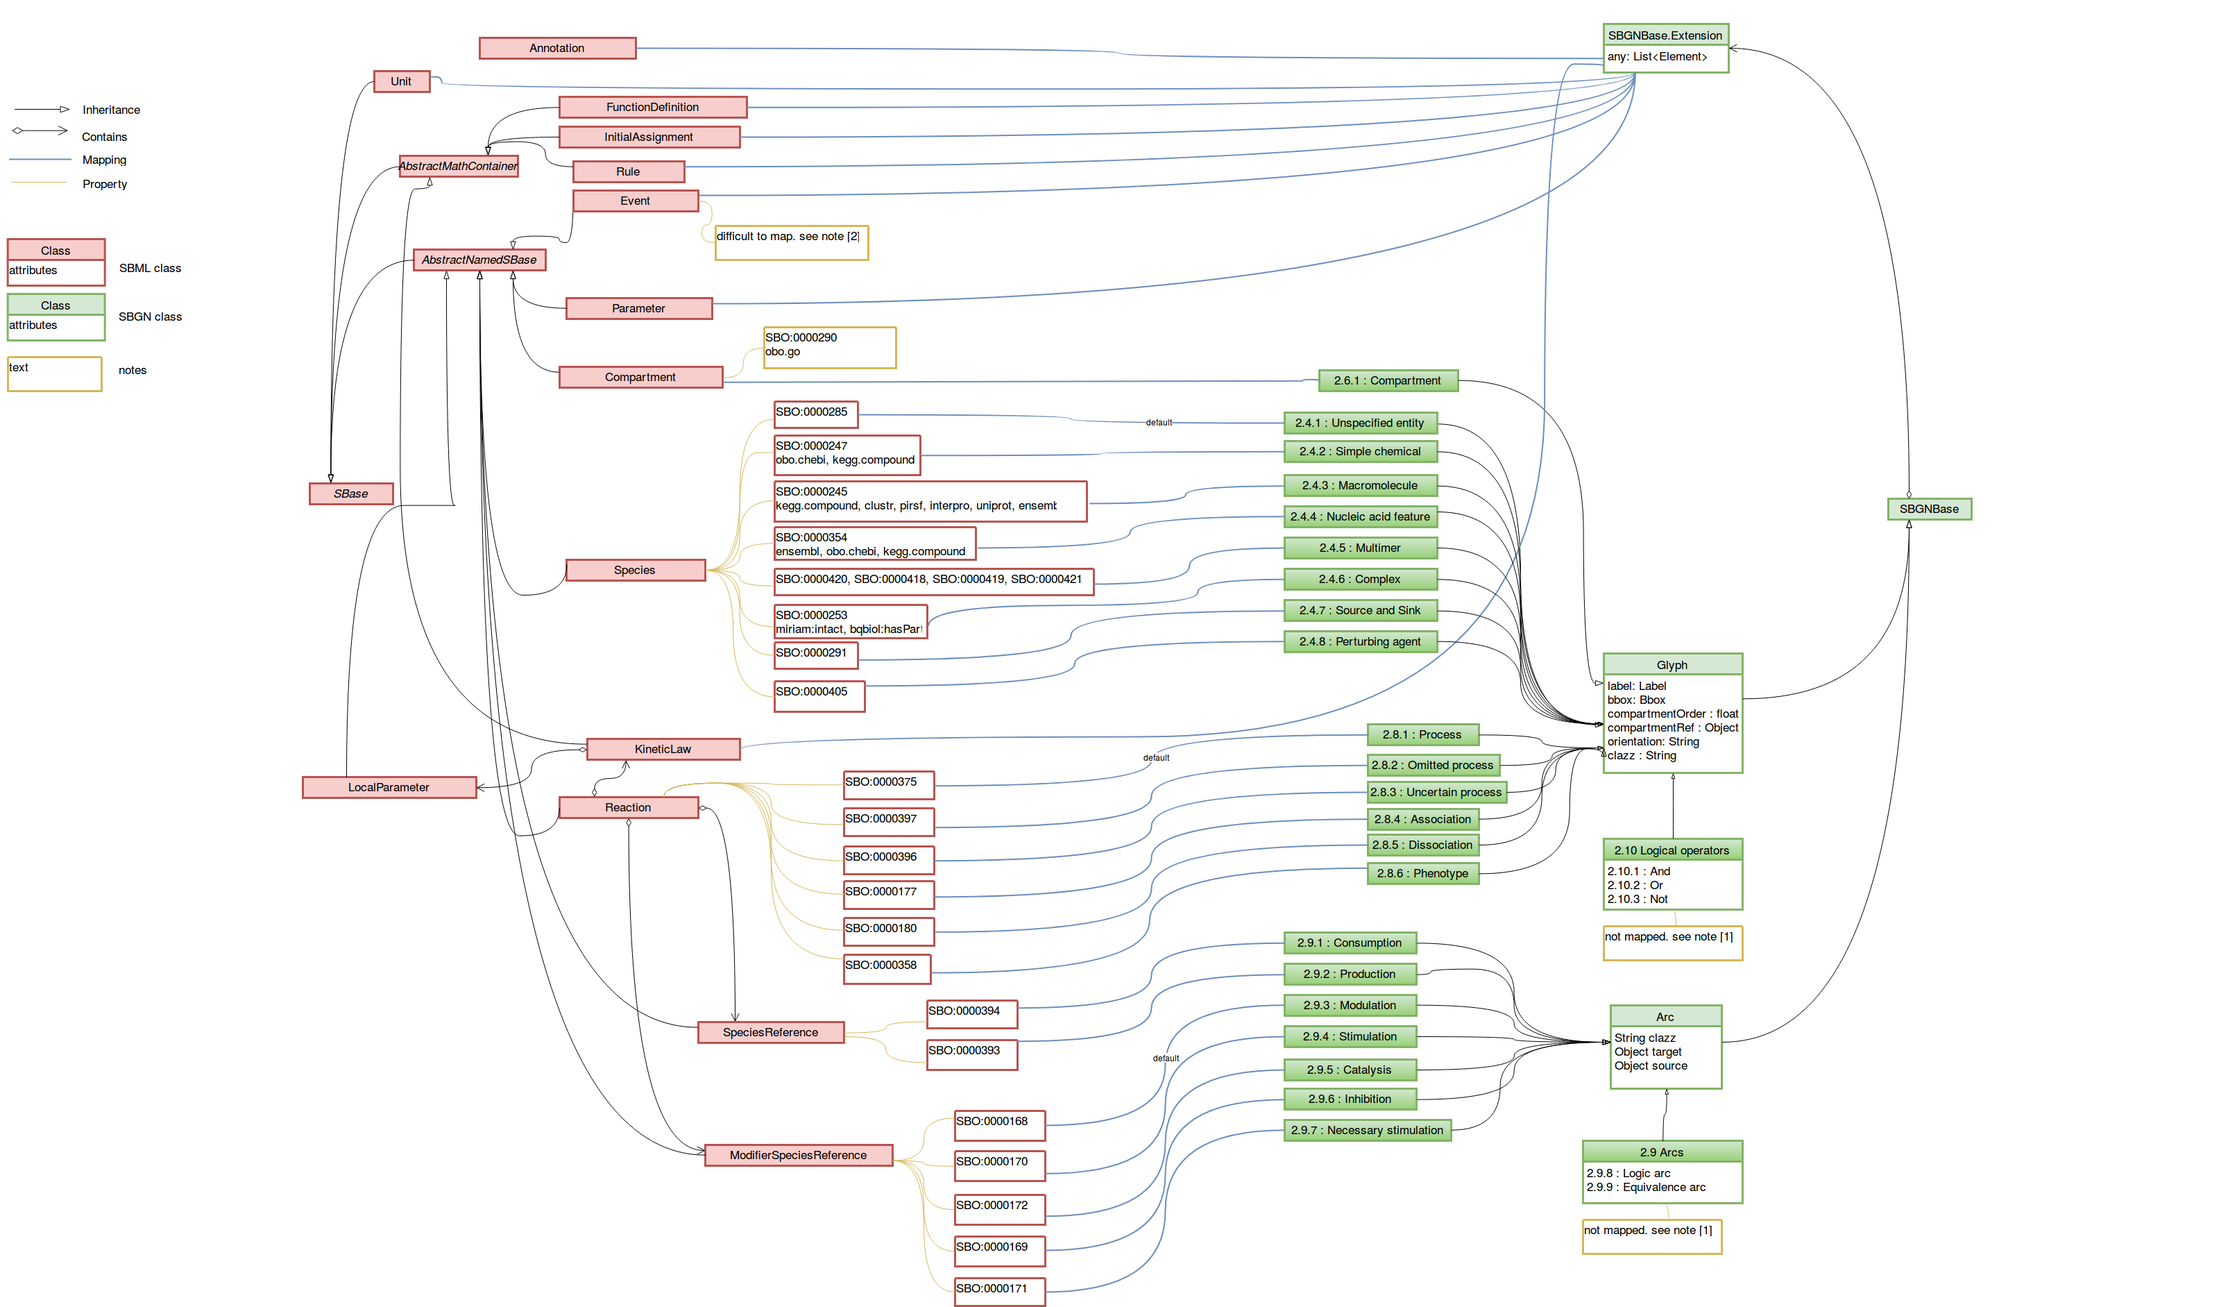
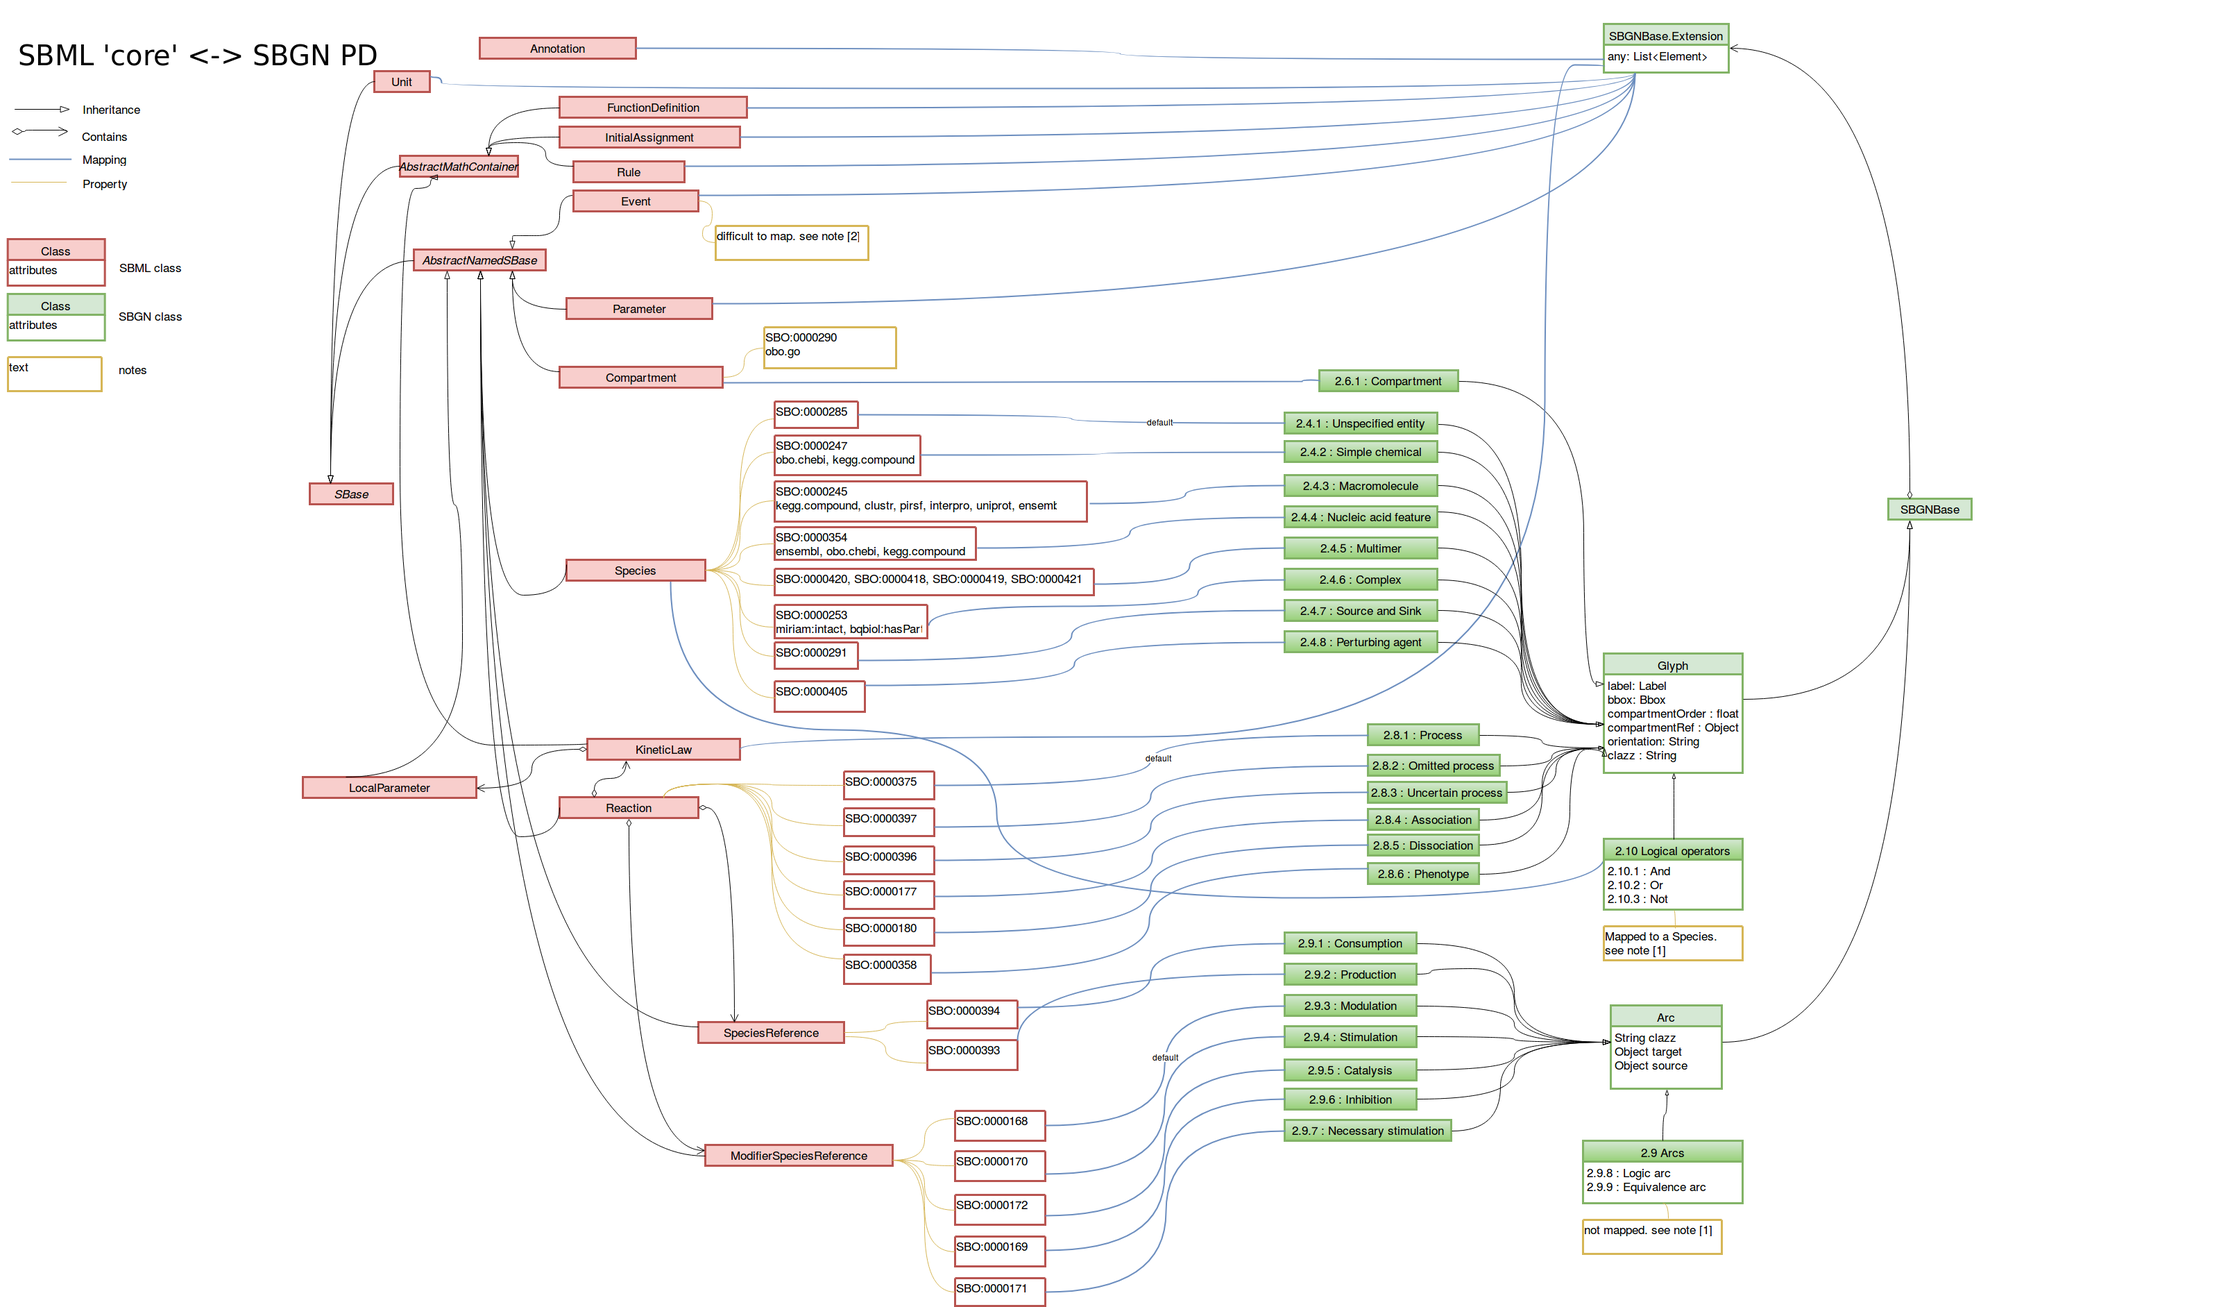
updated readme

diff --git a/code/src/org/sbfc/converter/sbml2sbgnml/SBML2SBGNML_GSOC2017.java b/code/src/org/sbfc/converter/sbml2sbgnml/SBML2SBGNML_GSOC2017.java
@@ -192,7 +192,6 @@ public class SBML2SBGNML_GSOC2017 extends GeneralConverter {
 			
 	/**
 	 * Create multiple SBGN <code>Glyph</code>, each corresponding to an SBML <code>CompartmentGlyph</code>. 
-	 * TODO: many things still need to be handled, see comments below
 	 * 
 	 * @param <code>Sbgn</code> sbgnObject
 	 * @param <code>ListOf<CompartmentGlyph></code> listOfCompartmentGlyphs

diff --git a/README.MD b/README.MD
@@ -139,33 +139,163 @@ The mapping diagram is almost identical to `SBML 'layout'+'render' <-> SBGN PD`
 5. `SBML 'qual' <-> SBGN AF`
 ![](https://github.com/NRNB-GSoC2017-SBML2SBGNML-Converters/SBML2SBGNML/blob/master/documentation/SBML2SBGN_%5Bqual_to_AF%5D_MIRIAM%2BSBO.png)
 
-Note 1:
-SBML core <-> SBGN PD
-Logic arc 
-Equivalence arc
-And
-Or
-Not
+The diagrams above were generated using [draw.io](https://www.draw.io/#). The diagrams were stored in XML format in [documentation](https://github.com/NRNB-GSoC2017-SBML2SBGNML-Converters/SBML2SBGNML/tree/master/documentation). These can be imported and edited.
+### Note 1:
+For the converter `SBML 'core' <- SBGN PD` and `SBML 'layout' <- SBGN PD`, we have multiple ways to map SBGN 'Logic arc', 'Equivalence arc', 'And', 'Or', 'Not' to SBML 'layout' objects. There are 3 alternatives we have discussed in [Post #10](http://haleyyew-gsoc.blogspot.ca/2017/07/week-10.html) in the blog and in an [Github Issue](https://github.com/NRNB-GSoC2017-SBML2SBGNML-Converters/SBML2SBGNML/issues/51). The example that we use is [or-simple.sbgn](https://github.com/sbgn/libsbgn/blob/master/test-files/PD/or-simple.png).
 
-Note 2:
-SBML core <-> SBGN PD
-Event
-Multiple diagrams for different time points
+1. Alternative 1 (incorrect)
+![](https://github.com/NRNB-GSoC2017-SBML2SBGNML-Converters/SBML2SBGNML/blob/master/documentation/or-simple_mapping1.png)
 
-Note 3:
-SBML core <-> SBGN AF
-KineticLaw
+However, we discussed in the blog that this violates the syntax of SBML 'core' and 'layout'. A ModifierSpeciesReference(MSR) cannot participate in 2 reactions. In this case, if the 'OR' glyph is mapped to a Reaction, then MSR would be a Product in the 'OR' Reaction. But then MSR is at the same time a Modifier in the 'Subst->Prod' Reaction.
 
-Note 4:
-SBML qual <-> SBGN AF
-Transition stores FunctionTerm
+2. Alternative 2 (not optimal)
+![](https://github.com/NRNB-GSoC2017-SBML2SBGNML-Converters/SBML2SBGNML/blob/master/documentation/or-simple_mapping2.png)
 
-Note 5:
-Preserving information in SBML core
+If we map the 'OR' glyph to a GeneralGlyph, then we lose many objects in the SBML 'core' model. The 'core' model no longer stores the 2 Logic arcs, the 'OR' glyph, and the Modifier arc. 
+
+3. Alternative 3
+![](https://github.com/NRNB-GSoC2017-SBML2SBGNML-Converters/SBML2SBGNML/blob/master/documentation/or-simple_mapping3.png)
+
+We end up using this option because it allows us to store as many objects in the 'core' model as possible. There is a tradeoff: since we map the 'OR' glyph to a Species+SpeciesGlyph, we cannot draw the center Curve that connects the Arcs. We need to create a separate ReferenceGlyph to mimic the appearance of the center Curve of a ReactionGlyph.
+
+We also lose the 2 Logic arcs in the 'core' model, but we managed to insert an Annotation element for the 2 mapped ReferenceGlyphs that informs to whom they interact with. For example, in one of the ReferenceGlyphs, the Annotation indicates the following:
+```
+	<bqbiol:hasProperty>
+	<rdf:Bag>
+	<rdf:li rdf:resource="glyph2"/>
+	<rdf:li rdf:resource="glyph3"/>
+	</rdf:Bag>
+	</bqbiol:hasProperty>
+```
+The ReferenceGlyph's 'source' is Species="glyph2" (which is Enzym2), and the 'target' is Species="glyph3" (which is 'OR').
+
+The converted SBML model for or-simple.sbgn is [or-simple_SBML.xml](https://github.com/NRNB-GSoC2017-SBML2SBGNML-Converters/SBML2SBGNML/blob/master/sbgnml_pd_examples_converted/or-simple_SBML.xml).
+
+### Note 2:
+For the converter `SBML 'core' -> SBGN PD`, we were concerned with not being able to store any 'layout' information contained inside an Event object in SBML 'core'. The approach that we plan to use, in the case where an Event changes the state of Species and Reactions, is to store multiple diagrams for different time points. An example is given below. This example was taken from [7.11 Example involving events](http://sbml.org/Special/specifications/sbml-level-3/version-1/core/release-2/sbml-level-3-version-1-core-release-2.pdf) in the SBML 'core' specification (with slight modifications).
+![](https://github.com/NRNB-GSoC2017-SBML2SBGNML-Converters/SBML2SBGNML/blob/master/documentation/note2.png)
+Consider a system with two genes, G1 and G2. G1 is initially on and G2 is initially off. When G1 is turned on, the two genes, together, lead to the production of two products, P1 and P2. When P1 reaches a given concentration (by some other reactions), G2 switches on.
+
+This idea has not been tested due to the lack of examples and a lack of time.
+
+### Note 3:
+For the converter `SBML 'core' <- SBGN AF`, we are concerned with how to map SBGN 'Logic arc', 'Equivalence arc', 'And', 'Or', 'Not' to SBML 'layout' objects to SBML KineticLaw. We found that KineticLaw might be a suitable candidate, however there will not be a Reaction in the 'core' model. For example, consider the SBGN model [compartment_extended.sbgn](https://github.com/NRNB-GSoC2017-SBML2SBGNML-Converters/SBML2SBGNML/blob/master/sbgnml_af_examples/compartment_extended.sbgn):
+![compartment_extended.sbgn](https://github.com/NRNB-GSoC2017-SBML2SBGNML-Converters/SBML2SBGNML/blob/master/sbgnml_af_examples/compartment_extended.png)
+The KineticLaw that describes the Logic circuit network from the "co-repressor", "co-activator", and the "RNA polymerase" to the "Gene transcription" is the following:
+```
+          <kineticLaw>
+            <math xmlns="http://www.w3.org/1998/Math/MathML">            
+              <apply>
+                <or/>
+                <apply>
+                  <and/>
+                  <ci> g2 </ci>
+                  <ci> g3 </ci>
+                </apply>
+                <ci> g6 </ci>
+              </apply>
+            </math>
+          </kineticLaw>
+```
+The initial values of g2, g3, and g6 must be either True or False. This idea was not implemented due to the lack of time, however, the idea in Note 4 was implemented. 
+
+### Note 4:
+For the converter `SBML 'qual' <-> SBGN AF`, we mapped SBGN 'Logic arc', 'Equivalence arc', 'And', 'Or', 'Not' to SBML 'qual' Transition, which stores a FunctionTerm. The example we worked with was [compartment_extended.sbgn](https://github.com/NRNB-GSoC2017-SBML2SBGNML-Converters/SBML2SBGNML/blob/master/sbgnml_af_examples/compartment_extended.sbgn), it was converted using [SBGNML2SBMLQual.java](https://github.com/NRNB-GSoC2017-SBML2SBGNML-Converters/SBML2SBGNML/blob/master/code/src/org/sbfc/converter/sbgnml2sbml/qual/SBGNML2SBMLQual.java). The converted SBML 'qual' model was [compartment_extended_SBML+qual.xml](https://github.com/NRNB-GSoC2017-SBML2SBGNML-Converters/SBML2SBGNML/blob/master/sbgnml_af_examples_converted/compartment_extended_SBML%2Bqual.xml). Notice how the Logic circuit network was mapped to the following Transition:
+```
+      <qual:transition qual:id="g7">
+        <qual:listOfInputs>
+          <qual:input qual:id="Input_g2_in_g7" qual:qualitativeSpecies="g2" qual:transitionEffect="none"/>
+          <qual:input qual:id="Input_g3_in_g7" qual:qualitativeSpecies="g3" qual:transitionEffect="none"/>
+          <qual:input qual:id="Input_g6_in_g7" qual:qualitativeSpecies="g6" qual:transitionEffect="none"/>
+        </qual:listOfInputs>
+        <qual:listOfOutputs>
+          <qual:output qual:id="Output_g5_in_g7" qual:qualitativeSpecies="g5" qual:transitionEffect="assignmentLevel"/>
+        </qual:listOfOutputs>
+        <qual:listOfFunctionTerms>
+          <qual:defaultTerm qual:resultLevel="1">
+          </qual:defaultTerm>
+          <qual:functionTerm qual:resultLevel="0">
+            <math xmlns="http://www.w3.org/1998/Math/MathML">            
+              <apply>
+                <or/>
+                <apply>
+                  <and/>
+                  <ci> Input_g2_in_g7 </ci>
+                  <ci> Input_g3_in_g7 </ci>
+                </apply>
+                <ci> Input_g6_in_g7 </ci>
+              </apply>
+            </math>
+          </qual:functionTerm>
+        </qual:listOfFunctionTerms>
+      </qual:transition>
+```
+
+### Note 5:
+Since SBGN and SBML are not semantically equivalent, we cannot perform a one-to-one mapping between SBGN objects and SBML objects. However, we aim to preserve the information in some way so that it can be restored once we perform a roundtrip conversion. That is, we aim to preserve:
+1. information in SBML 'core' that cannot be mapped directly to SBGN objects, and 
+2. information in SBGN objects that cannot be mapped directly to SBML 'core'. 
+
+#### 1. 
+For example, as we discussed in [Post #14](http://haleyyew-gsoc.blogspot.ca/2017/08/week-14.html) in the blog, if we have the following listOfUnitDefinitions in SBML,
+```
+    <listOfUnitDefinitions>
+      <unitDefinition id="per_second">
+        <listOfUnits>
+          <unit exponent="-1" kind="second" />
+        </listOfUnits>
+      </unitDefinition>
+      <unitDefinition id="litre_per_mole_per_second">
+        <listOfUnits>
+          <unit exponent="-1" kind="mole" />
+          <unit exponent="1" kind="litre" />
+          <unit exponent="-1" kind="second" />
+        </listOfUnits>
+      </unitDefinition>
+</listOfUnitDefinitions>
+```
+The UnitDefinitions will be preserved as SBGN Extension elements like the following:
+```
+    <extension>
+        <sbfcanno:unitDefinition xmlns:sbfcanno="http://www.sbfc.org/sbfcanno" sbfcanno:name="">
+            <sbfcanno:kindSECOND sbfcanno:exponent="-1.0" sbfcanno:kind="SECOND" sbfcanno:multiplier="1.0" sbfcanno:scale="0"/>
+        </sbfcanno:unitDefinition>
+        <sbfcanno:unitDefinition xmlns:sbfcanno="http://www.sbfc.org/sbfcanno" sbfcanno:name="">
+            <sbfcanno:kindMOLE sbfcanno:exponent="-1.0" sbfcanno:kind="MOLE" sbfcanno:multiplier="1.0" sbfcanno:scale="0"/>
+            <sbfcanno:kindLITRE sbfcanno:exponent="1.0" sbfcanno:kind="LITRE" sbfcanno:multiplier="1.0" sbfcanno:scale="0"/>
+            <sbfcanno:kindSECOND sbfcanno:exponent="-1.0" sbfcanno:kind="SECOND" sbfcanno:multiplier="1.0" sbfcanno:scale="0"/>
+        </sbfcanno:unitDefinition>
+</extension>
+```
+#### 2.
+In an SBGN Arc, the we cannot directly map the Arc.source and Arc.target attributes. However, we can preserve the values by using the Miriam Qualifiers. For example, 
+```
+<arc target="glyph23.1" source="glyph13" id="arc18" class="logic arc">...</arc>
+```
+The source and target glyph id would be stored in a CVTerm in the Annotation element.
+```
+        <annotation>
+	<rdf:RDF xmlns:rdf="http://www.w3.org/1999/02/22-rdf-syntax-ns#" xmlns:bqbiol="http://biomodels.net/biology-qualifiers/">
+	<rdf:Description rdf:about="#e9d8584d-c080-43fd-99d2-b2f2233186a7">
+	<bqbiol:hasProperty>
+	<rdf:Bag>
+	<rdf:li rdf:resource="glyph13"/>
+	<rdf:li rdf:resource="glyph23"/>
+	</rdf:Bag>
+	</bqbiol:hasProperty>
+	</rdf:Description>
+	</rdf:RDF>
+	</annotation>
+```
+However, using the Miriam Qualifiers could cause a conflict with an existing Annotation that already uses the Qualifiers. A custom annotation should be created to store these preserved information, but this was not implemented. So far, the following Biology Qualifiers were used:
+1. `Qualifier.BQB_IS_VERSION_OF` to store the Glyph.clazz or Arc.clazz attribute
+2. `Qualifier.BQB_HAS_PROPERTY` to store the Arc.source and Arc.target attributes
+3. `Qualifier.BQB_IS_PART_OF` to store the parent-child relationship between glyphs. Consider a complex containing many macromolecules. Then a macromolecule is part of the complex.
 
 ## Wrappers for mapping
 
 ### Mapping "SBML Layout glyphs" to "SBGN ML Glyphs" using Wrappers
+The wrappers were created to store meta information for an object in SBGN or in SBML. For example, in SBGN, a SWrapperArc was created for an Arc. The SWrapperArc stores the Arc, and because we use the Arc.source and Arc.target attributes in the SBGN->SBML conversion, the Object referenced by Arc.source and Arc.target need to be known. However we do not know the identity of the objects directly from Arc.source and Arc.target, we need to do some computations to find out the identities. We store the identities in SWrapperArc, so that we do not need to recompute the identities in the future, and we can retrieve the values easily from SWrapperArc. Most of the wrappers below are not as useful as expected, we hope that they may become more useful in the future as the converter gets more complex.
 
 #### 1.1 SWrapperMap
 ```
@@ -478,35 +608,57 @@ public class SWrapperReferenceGlyph{
 Mapping SBGN `Arc`->SBML `ReferenceGlyph`
 
 ## Information Lost:
+### SBML->SBGN
+1. Most of the mathematical formula of the SBML model are ignored, only the reaction layout is converted.
+2. FunctionDefinition,UnitDefinition,Parameters,InitialAssignment,Rule,Constraint,Event
+3. Attributes of Species, Reaction, Compartment, SpeciesReference, and ModifierSpeciesReference
+### SBGN->SBML
+1. The source and target reference of an Arc 
+2. compartmentRef of a Glyph
 
 ## Problems
-### Problem 1:
-SBML layout <-> SBGN PD
-See Note 1
+The problems listed here also have a TODO task in the converter code. Please refer to the TODO tasks for detailed information.
+### Problem 1: SBML layout <- SBGN PD
+See Note 1 in [Mapping diagrams](https://github.com/NRNB-GSoC2017-SBML2SBGNML-Converters/SBML2SBGNML/wiki/Mapping-diagrams)
 
-### Problem 2:
-SBGN Clone markers cannot display text.
+### Problem 2: SBML layout+render <- SBGN PD
+SBGN Clone markers cannot display text. See the 'labeledCloneMarker.sbgn' example in [Post #12](http://haleyyew-gsoc.blogspot.ca/2017/07/week-12.html) in the blog.
 
-### Problem 3:
-Does not consider the Glyph.orientation of the SBGN glyphs. 
+### Problem 3: SBML layout+render <- SBGN PD
+Does not consider the Glyph.orientation of the SBGN glyphs when creating 'layout', therefore Points that are not specified explicitly may get misplaced. See SBGNML2SBMLRender.findObjectRole for details.
 
-### Problem 4:
+### Problem 4: SBML layout <- SBGN PD
 We assume in SBGNML, Arc.start=Arc.source, Arc.end=Arc.target, but this might not be true. See SBGNML2SBML_GSOC2017.createOneModifierSpeciesReferenceGlyph for details.
 
-### Problem 5:
+### Problem 5: SBML layout <- SBGN PD
 Assume in SBML, ReferenceGlyph.glyph is SpeciesGlyph, ReferenceGlyph.reference is a ReactionGlyph, see SBGNML2SBML_GSOC2017.createOneReferenceGlyph for details.
 
-### Problem 6:
-Ordering of compartments
+### Problem 6: SBML layout+render <- SBGN PD
+Ordering of CompartmentGlyphs is incorrect if rendered using the 'render' package. See [Post #12](http://haleyyew-gsoc.blogspot.ca/2017/07/week-12.html) in the blog and [GitHub Issue](https://github.com/NRNB-GSoC2017-SBML2SBGNML-Converters/SBML2SBGNML/issues/47) for details.
 
-### Problem 7:
-See note 2
+### Problem 7: SBML 'core' -> SBGN PD
+See Note 2 in [Mapping diagrams](https://github.com/NRNB-GSoC2017-SBML2SBGNML-Converters/SBML2SBGNML/wiki/Mapping-diagrams)
 
-### Problem 8:
-See note 3
+### Problem 8: SBML 'core' <- SBGN AF
+See Note 3 in [Mapping diagrams](https://github.com/NRNB-GSoC2017-SBML2SBGNML-Converters/SBML2SBGNML/wiki/Mapping-diagrams)
 
-### Problem 9:
-See note 4
+### Problem 9: SBML 'qual' <-> SBGN AF
+See Note 4 in [Mapping diagrams](https://github.com/NRNB-GSoC2017-SBML2SBGNML-Converters/SBML2SBGNML/wiki/Mapping-diagrams)
 
-### Problem 10:
-See note 5
+### Problem 10: Preserving information in models
+See Note 5 in [Mapping diagrams](https://github.com/NRNB-GSoC2017-SBML2SBGNML-Converters/SBML2SBGNML/wiki/Mapping-diagrams)
+
+### Problem 11:
+When converting Species, all Species are placed in the DefaultCompartment. Need to check compartmentRef of the Sbgn glyph to find out which SBML compartment to contain the Species. See SBGNML2SBMLUtil.createDefaultCompartment for details.
+
+### Problem 12:
+Cannot find the correct 'clazz' for the Arc if we convert from SBML to SBGN AF. This is because there is only one type of Modulation in SBML, but there are many more 'clazz' for Modulation arcs in SBGN. See SBML2SBGNMLUtil.searchForReactionRole and SBML2SBGNML_GSOC2017.mapObjectRoleToClazz for details.
+
+### Problem 13:
+The splitting pattern to parse the id of an SBGN object is not correct, need a better splitting pattern. See SBML2SBGNML_GSOC2017.checkParentChildGlyph for details.
+
+### Problem 14:
+The architecture of SWrapperGlyphEntityPool needs to be changed. See SBML2SBGNML_GSOC2017.addCloneMarkers for details.
+
+### Problem 15: Rendering Styles for SBML
+See the problems in [Post #15](http://haleyyew-gsoc.blogspot.ca/2017/08/week-15.html) for details.
